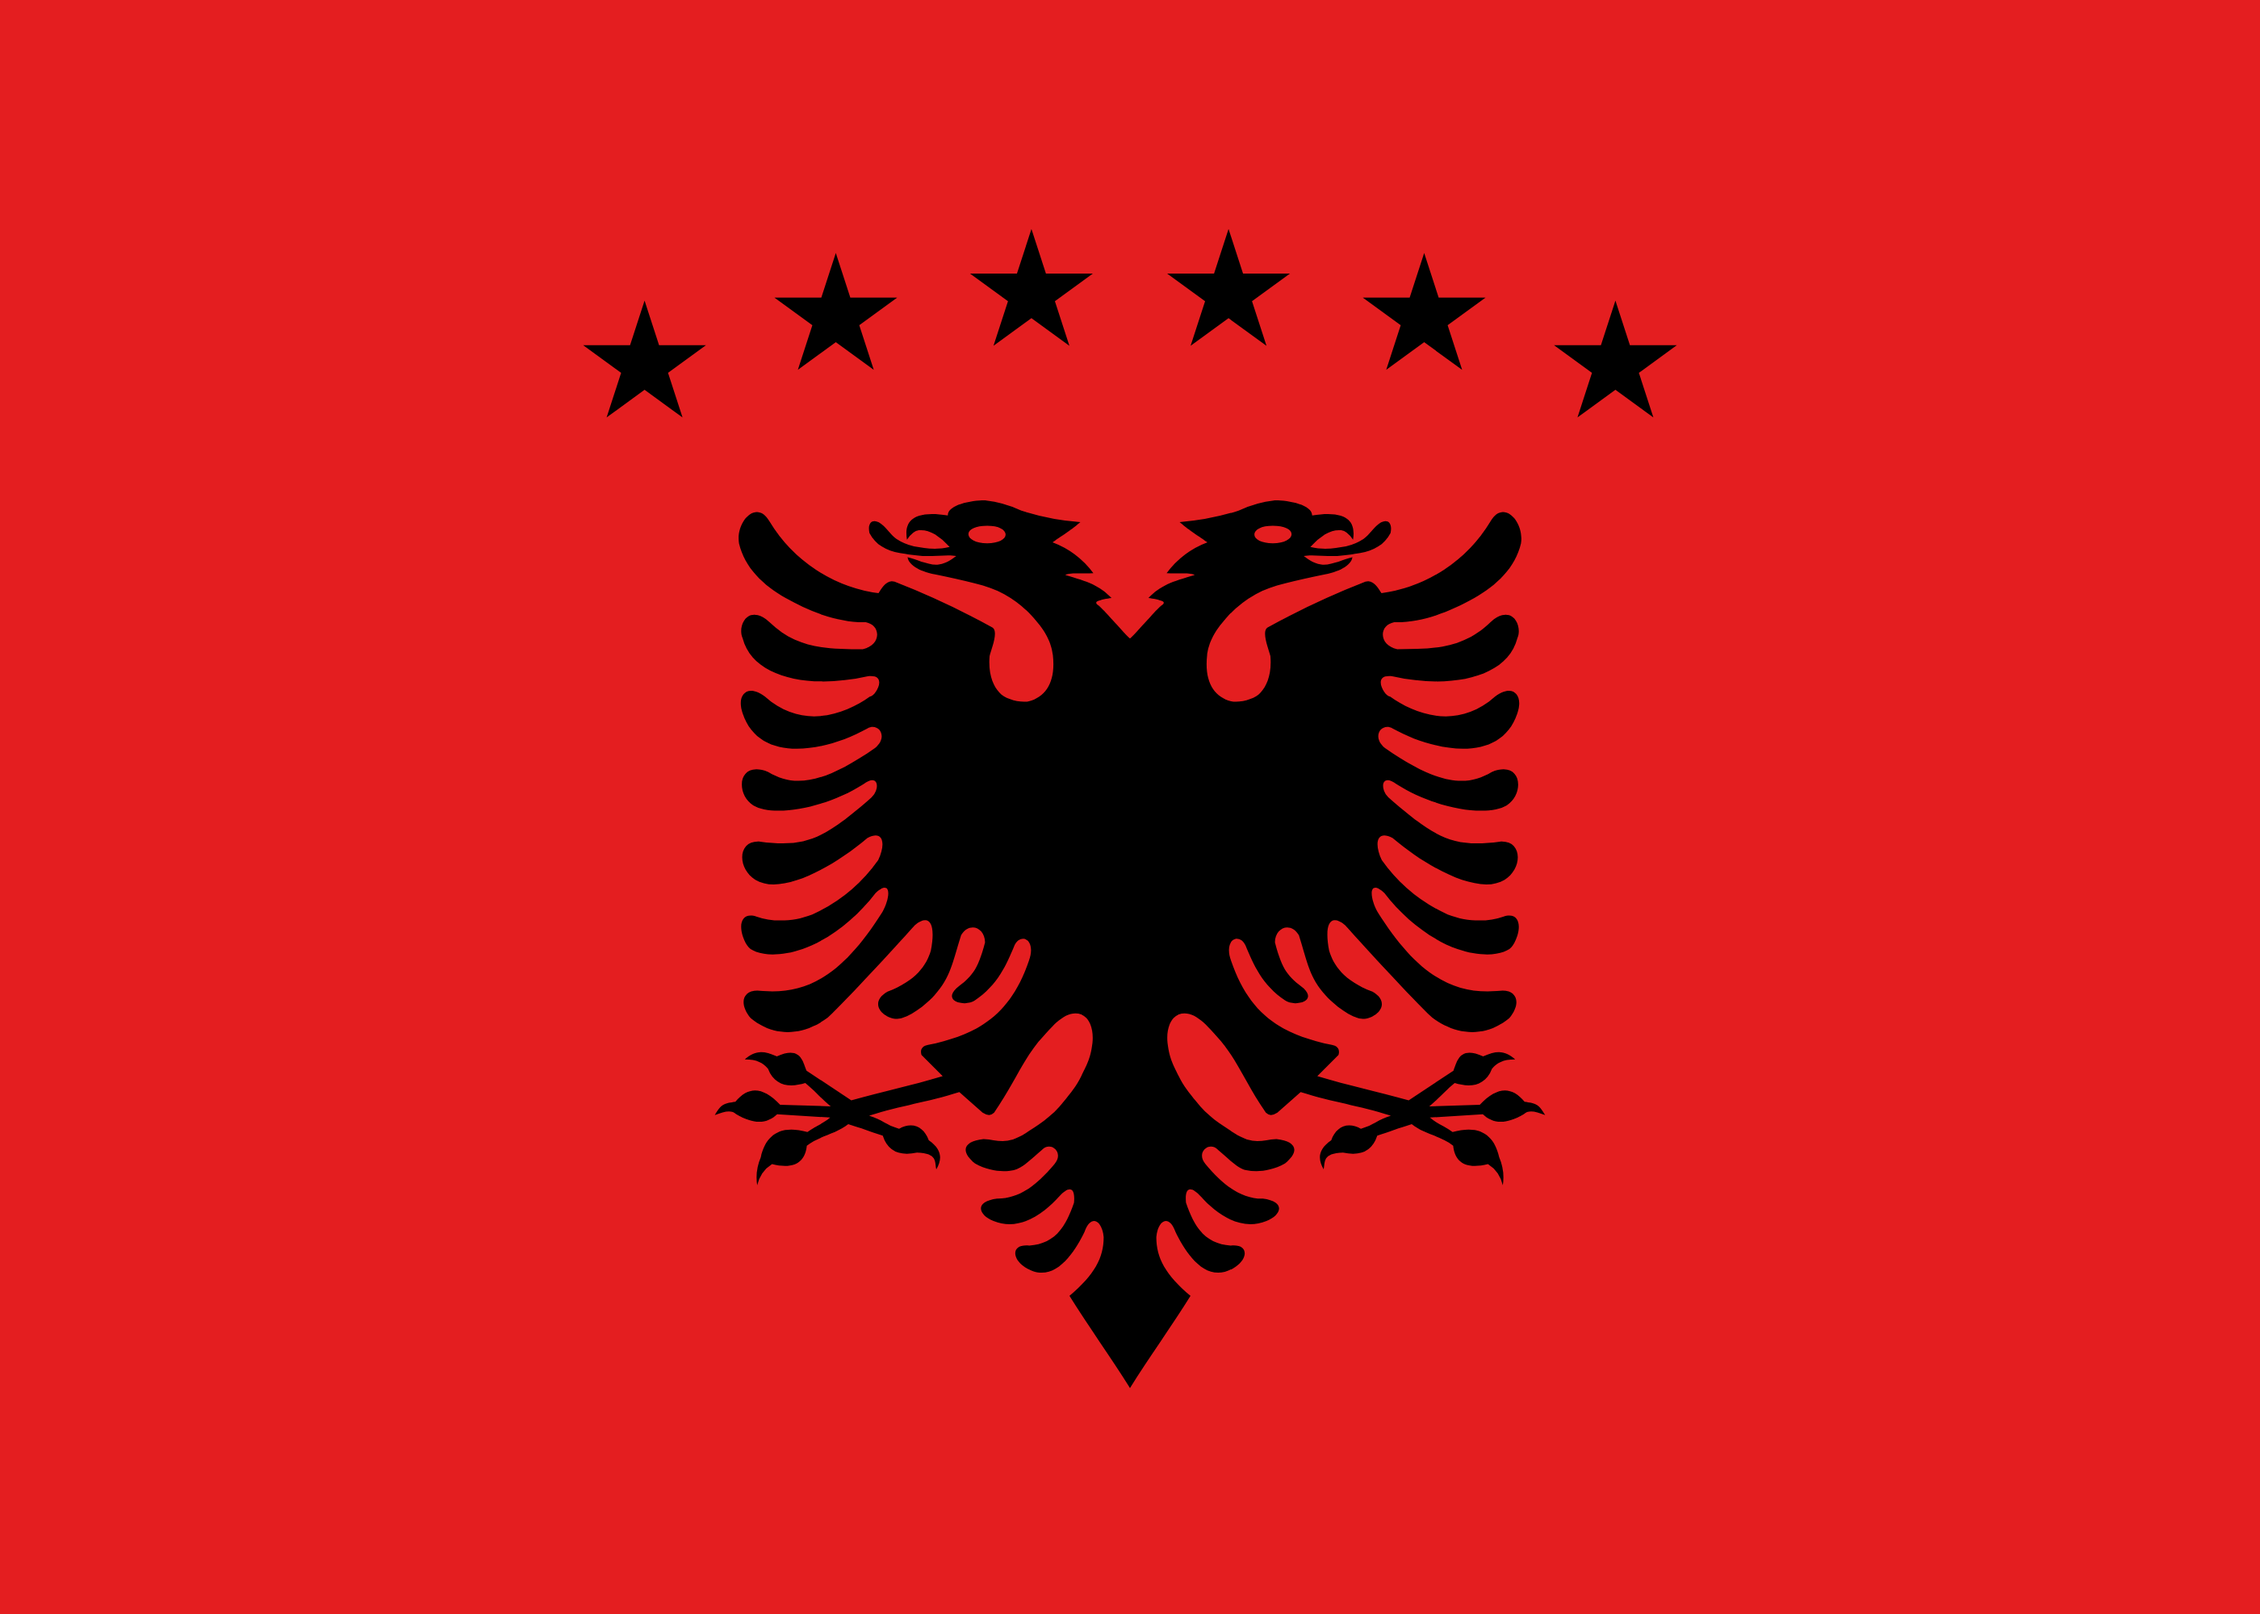
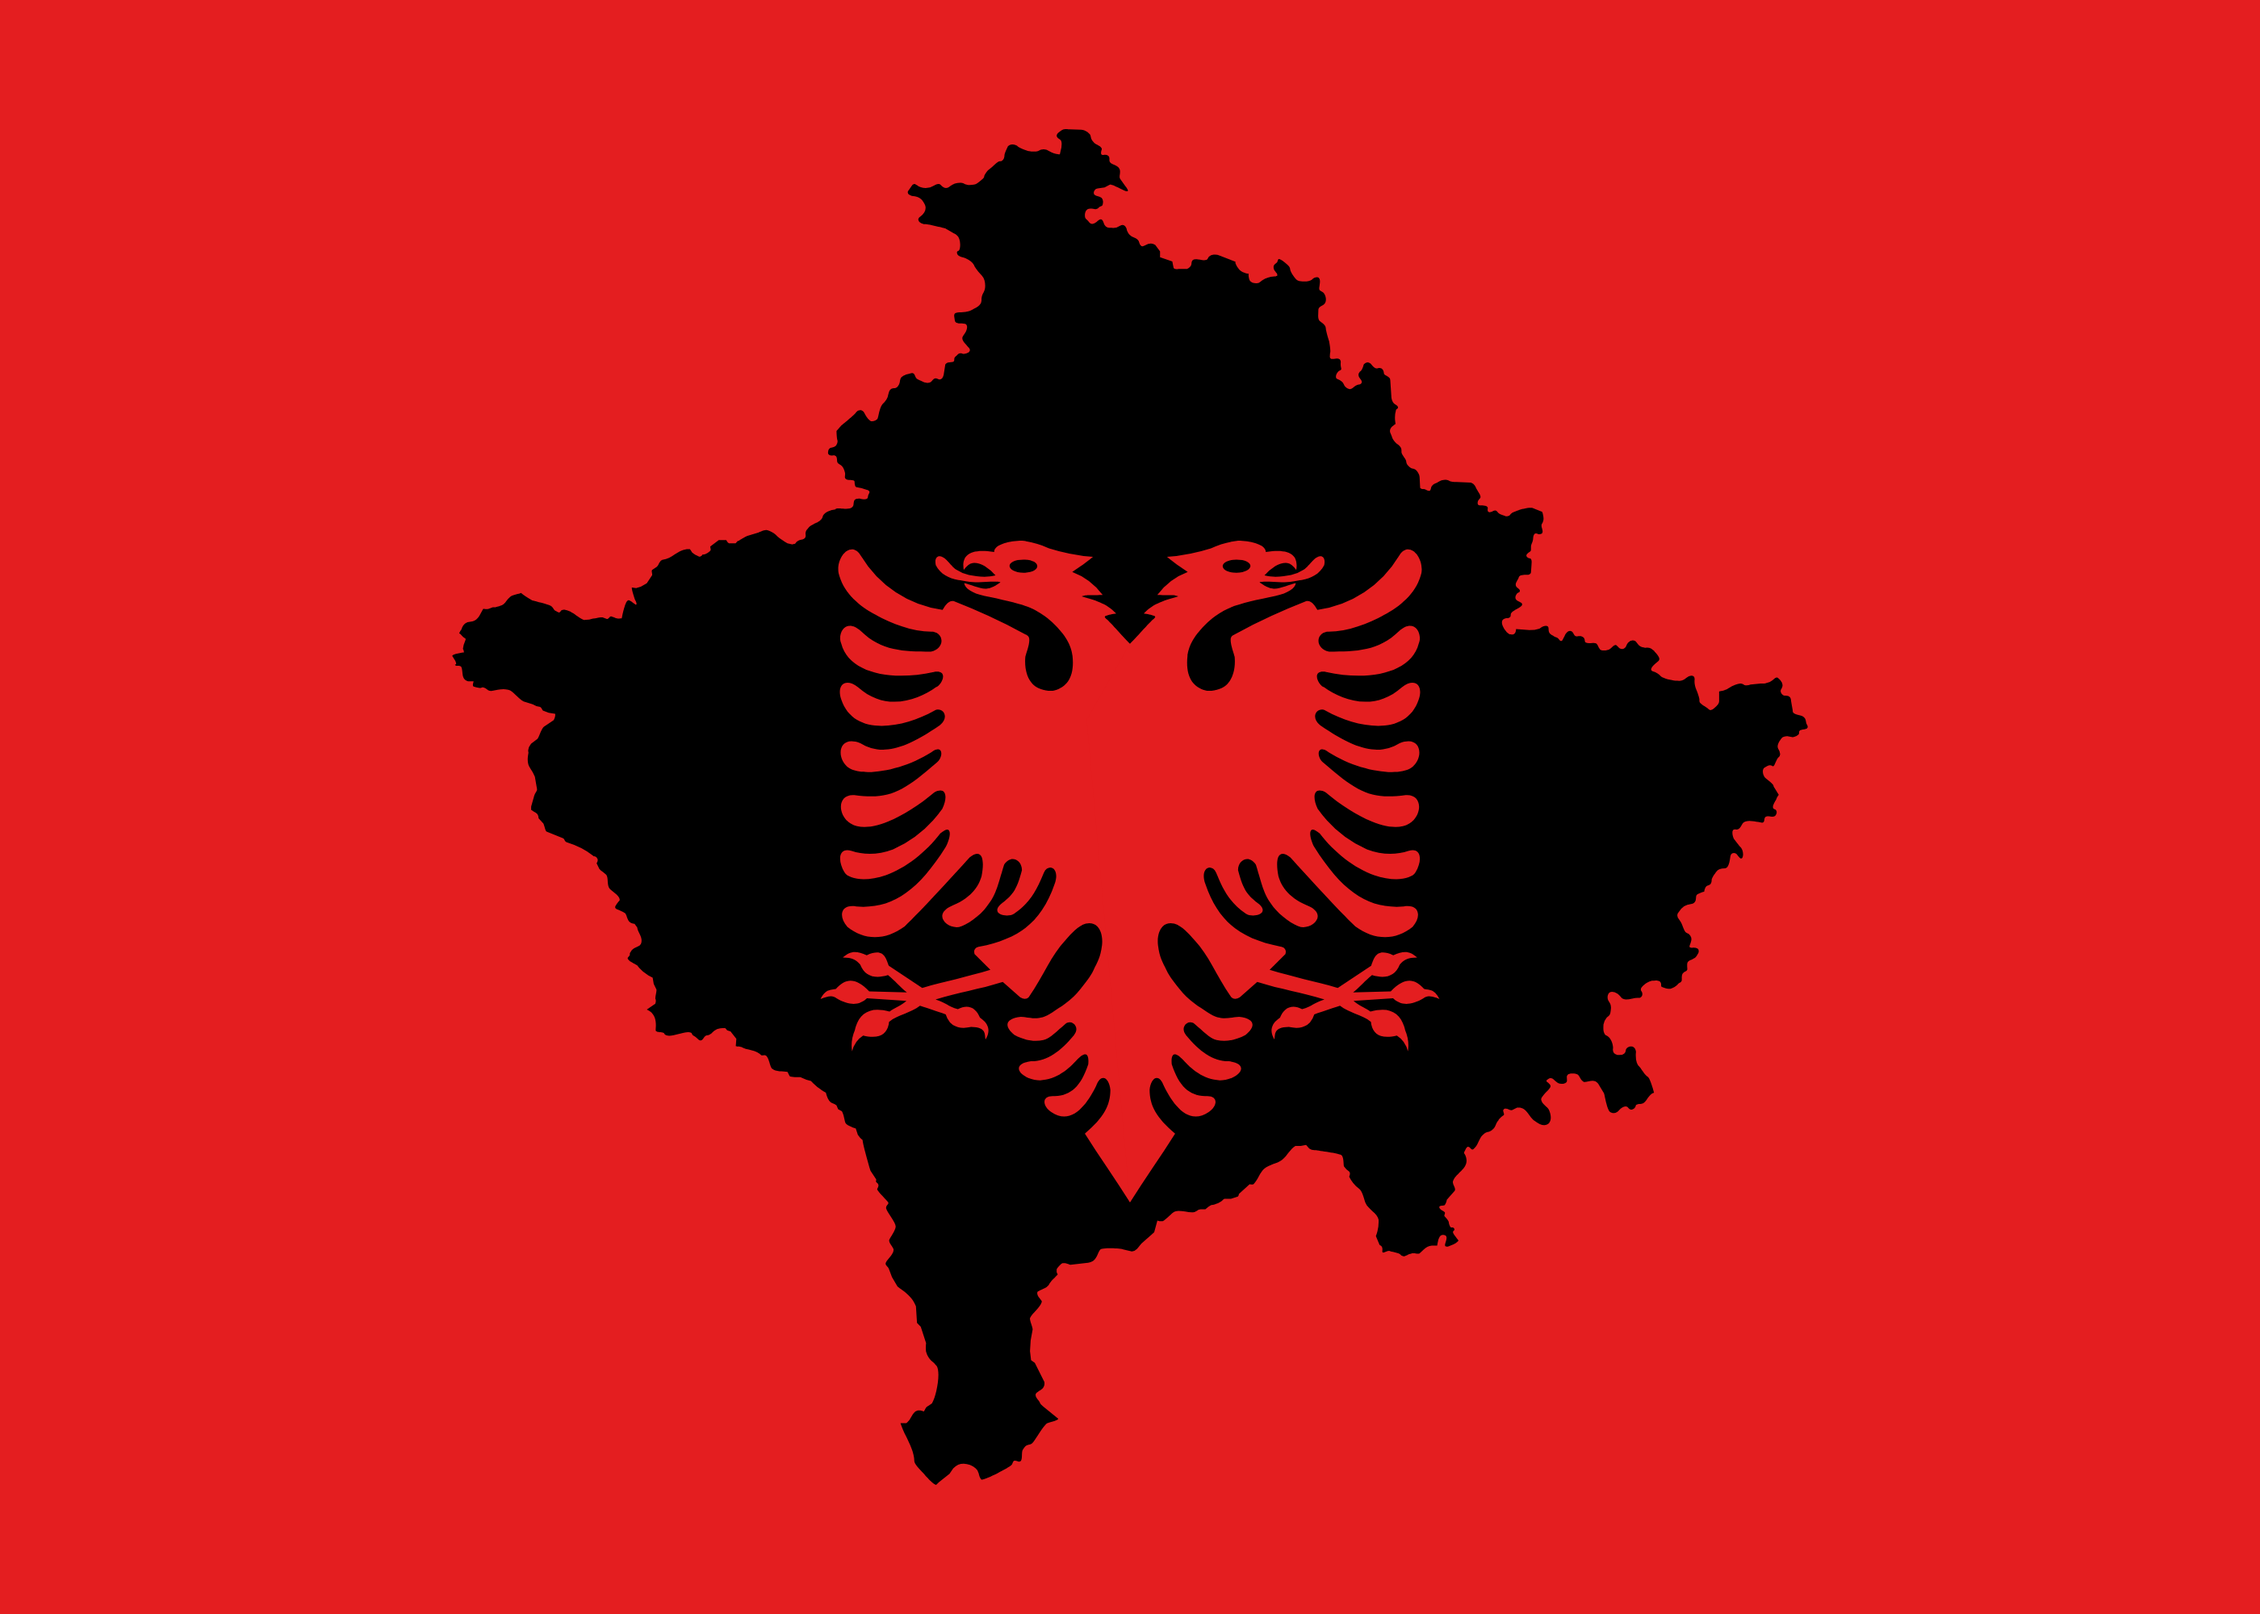
Rework flag concept: Kosovo map with Albanian eagle, no stars
Black silhouette of Kosovo (0.84 H) on the Albanian red field, with the
Albanian double-headed eagle in red inside the map (0.41 H). Eagle size
and position chosen so it stays fully enclosed with a black margin.
Stars removed. SVG, PNG, specification sheet and README updated.

Claude-Session: https://claude.ai/code/session_01779NssRfrDbZab3fQ6oxmi

Changed region(s): [[0.1864, 0.062, 0.8079, 0.93], [0.6836, 0.186, 0.7457, 0.248], [0.2486, 0.186, 0.3107, 0.248]]

diff --git a/design/flagge-albanien-kosovo/README.md b/design/flagge-albanien-kosovo/README.md
@@ -6,9 +6,9 @@ Konzeptentwurf, kein amtliches Hoheitszeichen.
 
 ## Idee
 
-Die albanische Flagge bleibt vollständig erhalten: rotes Feld, schwarzer Doppeladler, keine weiteren Farben.
-Neu ist nur der Sternenbogen aus der Flagge des Kosovo – sechs Sterne, schwarz statt weiß, im Bogen über den Köpfen des Adlers.
-Die Flagge bleibt damit auf den ersten Blick albanisch, der Bogen ist das eindeutige Kosovo-Zitat.
+Aufbau der Kosovo-Flagge, Farben und Wappentier Albaniens:
+die Landkarte des Kosovo in Schwarz auf rotem Feld, darin der albanische Doppeladler in Rot.
+Keine Sterne, keine weiteren Farben.
 
 ## Dateien
 
@@ -23,11 +23,12 @@ Die Flagge bleibt damit auf den ersten Blick albanisch, der Bogen ist das eindeu
 | Maß | Wert |
 |---|---|
 | Seitenverhältnis | 5 : 7 (wie Albanien) |
-| Adlerhöhe | 0,55 H, horizontal zentriert |
-| Adler-Oberkante | 0,31 H vom oberen Rand |
-| Sternenbogen | Radius R = H, Scheitel bei 0,18 H |
-| Sternabstand | 7° auf dem Bogen, symmetrisch zur Mittelachse |
-| Sternradius | 0,04 H (Außenradius), fünfzackig, Spitze nach oben |
+| Karte | Höhe 0,84 H, Begrenzungsrahmen mittig auf der Flagge |
+| Adler | Höhe 0,41 H, auf der Mittelachse, Mittelpunkt bei 0,54 H |
+| Mindestrand | Adler überall mindestens 0,014 H vom Kartenrand entfernt |
+
+Größe und Position des Adlers sind so gewählt, dass er vollständig innerhalb der Karte liegt
+und an keiner Stelle in das rote Feld übergeht.
 
 ## Farben
 
@@ -38,10 +39,10 @@ Die Flagge bleibt damit auf den ersten Blick albanisch, der Bogen ist das eindeu
 
 ## Symbolik
 
-- **Rot und Doppeladler** – Albanien, unverändert übernommen
-- **Sechs Sterne im Bogen** – Zitat der Flagge des Kosovo
-- **Zwei Köpfe, ein Körper** – zwei Staaten, ein Volk
+- **Rot und Doppeladler** – Albanien, Farben und Wappentier
+- **Landkarte** – Kosovo, Hauptmotiv seiner Flagge
+- **Adler in der Karte** – beide Flaggen in einem Zeichen
 
 ## Quellen
 
-Adler-Vektor aus [flag-icons](https://github.com/lipis/flag-icons) (MIT-Lizenz).
+Adler- und Kartenvektor aus [flag-icons](https://github.com/lipis/flag-icons) (MIT-Lizenz).
